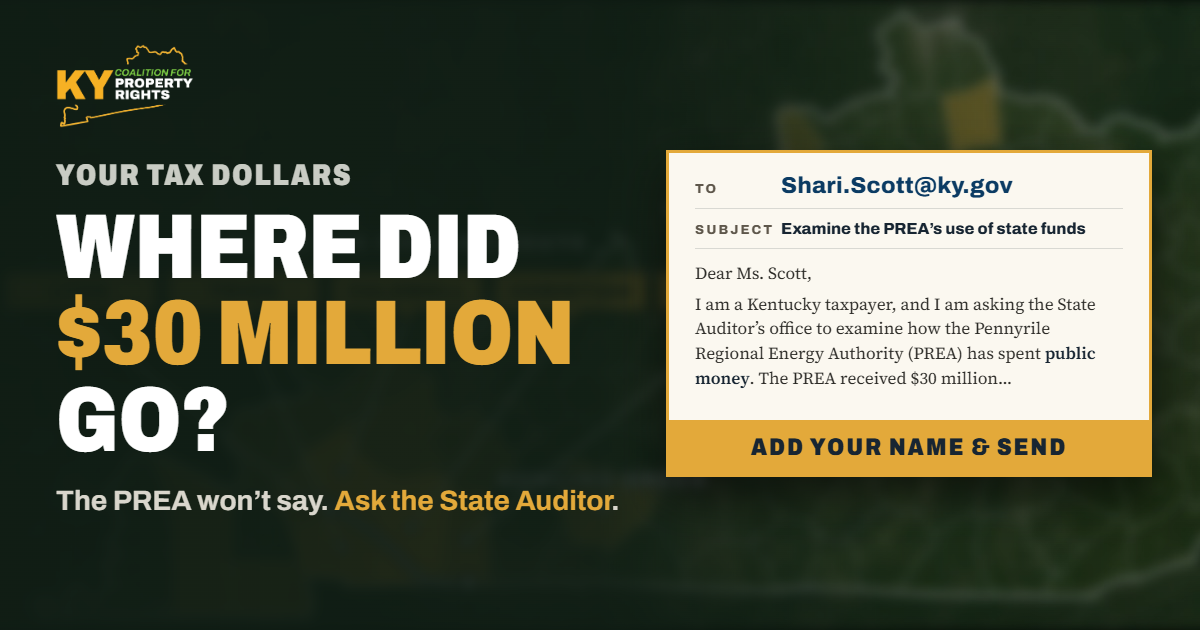
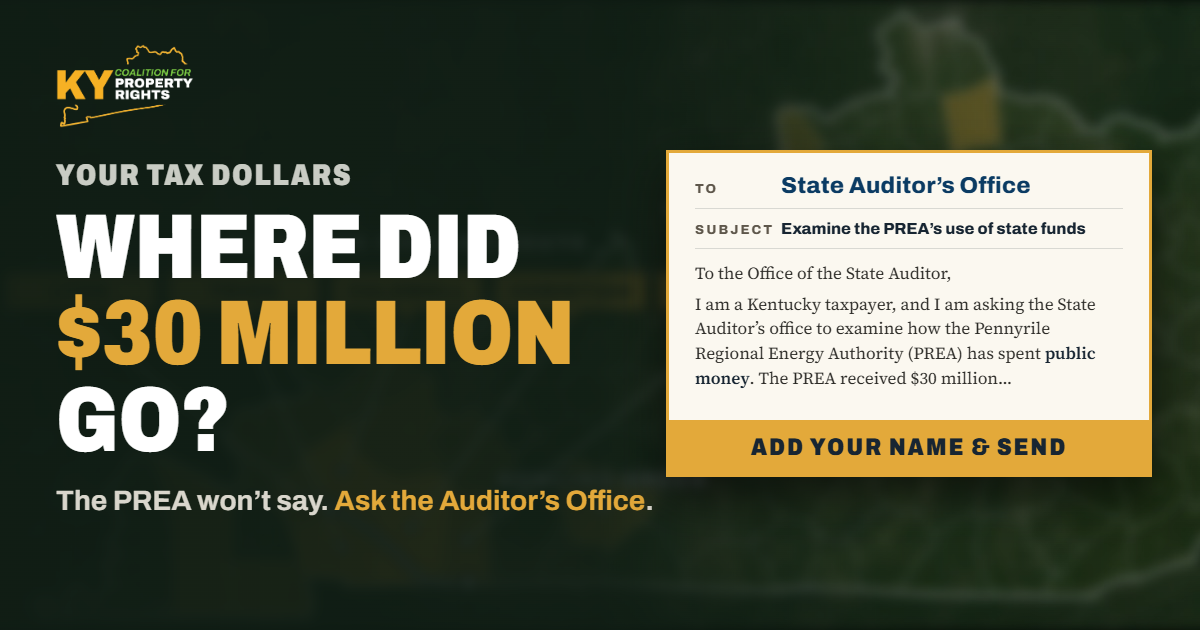
Add files via upload

Changed region(s): [[0.6475, 0.2714, 0.8633, 0.3317], [0.37, 0.754, 0.555, 0.8143], [0.5858, 0.4222, 0.8017, 0.4524]]

diff --git a/index.html b/index.html
@@ -438,12 +438,12 @@
     <div id="audit-form" style="grid-area:form;align-self:start;min-width:0;margin:{{ auditCardMargin }};background:#FFFFFF;color:#172532;padding:clamp(20px,2.6vw,34px);border-top:6px solid #E3A93A;border-bottom:6px solid #0B3B63;box-shadow:{{ newsVidShadow }}">
       <div style="display:flex;align-items:center;gap:10px;margin-bottom:14px">
         <img src="assets/warn-alert.png" alt="" style="width:24px;height:auto;flex:none">
-        <span style="font-family:Archivo,sans-serif;font-weight:800;font-size:12px;letter-spacing:.18em;text-transform:uppercase;color:#4E7A2A">Email the State Auditor</span>
+        <span style="font-family:Archivo,sans-serif;font-weight:800;font-size:12px;letter-spacing:.18em;text-transform:uppercase;color:#4E7A2A">Email the State Auditor's Office</span>
       </div>
       <div style="display:flex;flex-wrap:wrap;align-items:baseline;gap:4px 14px;padding:12px 14px;background:#F3ECDB;margin-bottom:18px">
         <span style="font-family:Archivo,sans-serif;font-weight:800;font-size:11.5px;letter-spacing:.16em;text-transform:uppercase;color:#5E574B">To</span>
-        <span style="font-family:Archivo,sans-serif;font-weight:800;font-size:17px;letter-spacing:.02em;color:#0B3B63;word-break:break-all">Shari.Scott@ky.gov</span>
-        <span style="font-size:14px;line-height:1.4;color:#5E574B">Kentucky State Auditor's office</span>
+        <span style="font-family:Archivo,sans-serif;font-weight:800;font-size:17px;letter-spacing:.02em;color:#0B3B63">Kentucky State Auditor's Office</span>
+        <span style="flex-basis:100%;display:grid;gap:2px;font-size:14.5px;line-height:1.4;color:#5E574B;word-break:break-all"><span>Shari.Scott@ky.gov</span><span>BryanD.Morrow@ky.gov</span><span>InfoRequest@ky.gov</span></span>
       </div>
       <form onSubmit="{{ onAuditSend }}" style="display:grid;gap:14px">
         <div style="display:grid;grid-template-columns:repeat(auto-fit,minmax(min(100%,180px),1fr));gap:10px">
@@ -751,16 +751,16 @@ class Component extends DCLogic {
   }
   auditVals() {
     const s = this.state, m = s.mode;
-    const TO = "Shari.Scott@ky.gov";
+    const TO = "Shari.Scott@ky.gov,BryanD.Morrow@ky.gov,InfoRequest@ky.gov";
     const link = "https://kentuckycoalitionforpropertyrights.com/audit.html";
     const subjDefault = "Request to examine the Pennyrile Regional Energy Authority's use of state funds";
-    const bodyDefault = "Dear Ms. Scott,\n\nI am a Kentucky taxpayer, and I am asking the State Auditor's office to examine how the Pennyrile Regional Energy Authority (PREA) has spent public money.\n\nThe PREA received $30 million in state tax money for a proposed 53-mile gas pipeline through Lyon, Caldwell, Trigg, Christian and Todd counties. An estimated $7–8 million has already been spent, and nothing has been built. I cannot find a single public report or audit showing where that money went.\n\nWhen the PREA's board chair was asked under oath to account for the $30 million, he said, “We don't send anything to the government.”\n\nThe PREA is now using eminent domain against Kentucky landowners, and no independent regulator reviews its route, its price or its costs. Kentuckians deserve to know how our money has been spent before any more land is taken.\n\nPlease examine the PREA's use of state funds and make your findings public.\n\nThank you for your time.";
+    const bodyDefault = "To the Office of the State Auditor,\n\nI am a Kentucky taxpayer, and I am asking the State Auditor's office to examine how the Pennyrile Regional Energy Authority (PREA) has spent public money.\n\nThe PREA received $30 million in state tax money for a proposed 53-mile gas pipeline through Lyon, Caldwell, Trigg, Christian and Todd counties. An estimated $7–8 million has already been spent, and nothing has been built. I cannot find a single public report or audit showing where that money went.\n\nWhen the PREA's board chair was asked under oath to account for the $30 million, he said, “We don't send anything to the government.”\n\nThe PREA is now using eminent domain against Kentucky landowners, and no independent regulator reviews its route, its price or its costs. Kentuckians deserve to know how our money has been spent before any more land is taken.\n\nPlease examine the PREA's use of state funds and make your findings public.\n\nThank you for your time.";
     const subj = s.auditSubject ?? subjDefault;
     const body = s.auditBody ?? bodyDefault;
     const name = (s.auditName || "").trim(), town = (s.auditTown || "").trim();
     const sign = "Sincerely,\n" + (name || "[Your name]") + (town ? "\n" + town + ", Kentucky" : "");
     const full = body.replace(/\s+$/, "") + "\n\n" + sign;
-    const mailto = "mailto:" + TO + "?subject=" + encodeURIComponent(subj) + "&body=" + encodeURIComponent(full);
+    const mailto = "mailto:" + TO.split(",").map(encodeURIComponent).join(",") + "?subject=" + encodeURIComponent(subj) + "&body=" + encodeURIComponent(full);
     const gmail = "https://mail.google.com/mail/?view=cm&fs=1&to=" + encodeURIComponent(TO) + "&su=" + encodeURIComponent(subj) + "&body=" + encodeURIComponent(full);
     const copyText = (t, done) => {
       if (navigator.clipboard && window.isSecureContext) navigator.clipboard.writeText(t).then(done, done);
@@ -790,7 +790,7 @@ class Component extends DCLogic {
         if (via === "gmail") window.open(gmail, "_blank", "noopener"); else window.location.href = mailto;
         this.setState({ auditSent: via });
       },
-      onAuditCopy: () => { track("copy"); copyText("To: " + TO + "\nSubject: " + subj + "\n\n" + full, () => flash("auditCopied", 3000)); },
+      onAuditCopy: () => { track("copy"); copyText("To: " + TO.split(",").join(", ") + "\nSubject: " + subj + "\n\n" + full, () => flash("auditCopied", 3000)); },
       auditCopyLabel: s.auditCopied ? "Copied" : "Copy message",
       auditSentOn: !!s.auditSent,
       auditSentMsg: s.auditSent === "gmail" ? "✓ Gmail opened in a new tab with your message. Press send there to deliver it." : "✓ Your email app should now be open with the message ready. Press send there to deliver it.",
@@ -809,7 +809,7 @@ class Component extends DCLogic {
       auditTaRef: this._taRef || (this._taRef = el => { this._ta = el; if (el) requestAnimationFrame(() => this.sizeTa()); }),
       auditShowGmail: !this._touch,
       auditAltCols: this._touch ? "minmax(0,1fr)" : "repeat(2,minmax(0,1fr))",
-      auditHelp: this._touch ? "Send email opens the email app on your phone. If nothing opens, tap Copy message and paste it into a new email to Shari.Scott@ky.gov." : "Send email opens the email app on your computer. If nothing opens, use Gmail, or copy the message and paste it into a new email to Shari.Scott@ky.gov."
+      auditHelp: this._touch ? "Send email opens the email app on your phone. If nothing opens, tap Copy message and paste it into a new email to Shari.Scott@ky.gov, BryanD.Morrow@ky.gov and InfoRequest@ky.gov." : "Send email opens the email app on your computer. If nothing opens, use Gmail, or copy the message and paste it into a new email to Shari.Scott@ky.gov, BryanD.Morrow@ky.gov and InfoRequest@ky.gov."
     };
   }
   shareVals() {

diff --git a/audit/index.html b/audit/index.html
@@ -9,16 +9,16 @@
 <meta name="robots" content="noindex, follow">
 <meta property="og:type" content="website">
 <meta property="og:url" content="https://kentuckycoalitionforpropertyrights.com/audit.html">
-<meta property="og:title" content="Where did $30 million of Kentucky tax money go? Ask the State Auditor.">
-<meta property="og:description" content="The PREA won't say. Add your name to a ready-made email to the State Auditor and send it in two minutes.">
+<meta property="og:title" content="Where did $30 million of Kentucky tax money go? Ask the State Auditor's Office.">
+<meta property="og:description" content="The PREA won't say. Add your name to a ready-made email to the State Auditor's Office and send it in two minutes.">
 <meta property="og:image" content="https://kentuckycoalitionforpropertyrights.com/audit-share.png">
 <meta property="og:image:width" content="1200">
 <meta property="og:image:height" content="630">
-<meta property="og:image:alt" content="Where did $30 million go? The PREA won’t say. Ask the State Auditor. A ready-made email to Shari.Scott@ky.gov: add your name and send.">
+<meta property="og:image:alt" content="Where did $30 million go? The PREA won’t say. Ask the State Auditor’s Office. A ready-made email: add your name and send.">
 <meta name="twitter:card" content="summary_large_image">
 <meta name="twitter:site" content="@KYCFPR">
-<meta name="twitter:title" content="Where did $30 million of Kentucky tax money go? Ask the State Auditor.">
-<meta name="twitter:description" content="The PREA won't say. Add your name to a ready-made email to the State Auditor and send it in two minutes.">
+<meta name="twitter:title" content="Where did $30 million of Kentucky tax money go? Ask the State Auditor's Office.">
+<meta name="twitter:description" content="The PREA won't say. Add your name to a ready-made email to the State Auditor's Office and send it in two minutes.">
 <meta name="twitter:image" content="https://kentuckycoalitionforpropertyrights.com/audit-share.png">
 <meta http-equiv="refresh" content="0; url=../?from=audit#audit">
 <script>location.replace("../?from=audit#audit");</script>

diff --git a/audit.html b/audit.html
@@ -9,16 +9,16 @@
 <meta name="robots" content="noindex, follow">
 <meta property="og:type" content="website">
 <meta property="og:url" content="https://kentuckycoalitionforpropertyrights.com/audit.html">
-<meta property="og:title" content="Where did $30 million of Kentucky tax money go? Ask the State Auditor.">
-<meta property="og:description" content="The PREA won't say. Add your name to a ready-made email to the State Auditor and send it in two minutes.">
+<meta property="og:title" content="Where did $30 million of Kentucky tax money go? Ask the State Auditor's Office.">
+<meta property="og:description" content="The PREA won't say. Add your name to a ready-made email to the State Auditor's Office and send it in two minutes.">
 <meta property="og:image" content="https://kentuckycoalitionforpropertyrights.com/audit-share.png">
 <meta property="og:image:width" content="1200">
 <meta property="og:image:height" content="630">
-<meta property="og:image:alt" content="Where did $30 million go? The PREA won’t say. Ask the State Auditor. A ready-made email to Shari.Scott@ky.gov: add your name and send.">
+<meta property="og:image:alt" content="Where did $30 million go? The PREA won’t say. Ask the State Auditor’s Office. A ready-made email: add your name and send.">
 <meta name="twitter:card" content="summary_large_image">
 <meta name="twitter:site" content="@KYCFPR">
-<meta name="twitter:title" content="Where did $30 million of Kentucky tax money go? Ask the State Auditor.">
-<meta name="twitter:description" content="The PREA won't say. Add your name to a ready-made email to the State Auditor and send it in two minutes.">
+<meta name="twitter:title" content="Where did $30 million of Kentucky tax money go? Ask the State Auditor's Office.">
+<meta name="twitter:description" content="The PREA won't say. Add your name to a ready-made email to the State Auditor's Office and send it in two minutes.">
 <meta name="twitter:image" content="https://kentuckycoalitionforpropertyrights.com/audit-share.png">
 <meta http-equiv="refresh" content="0; url=./?from=audit#audit">
 <script>location.replace("./?from=audit#audit");</script>
